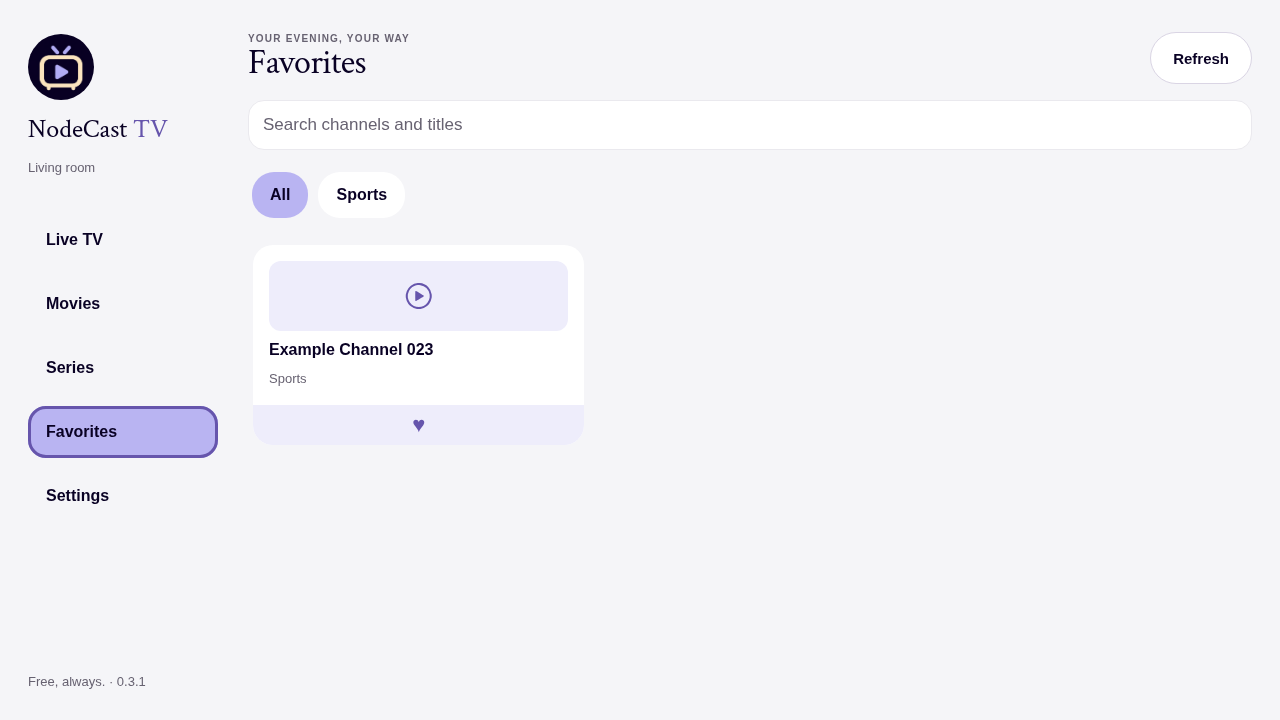
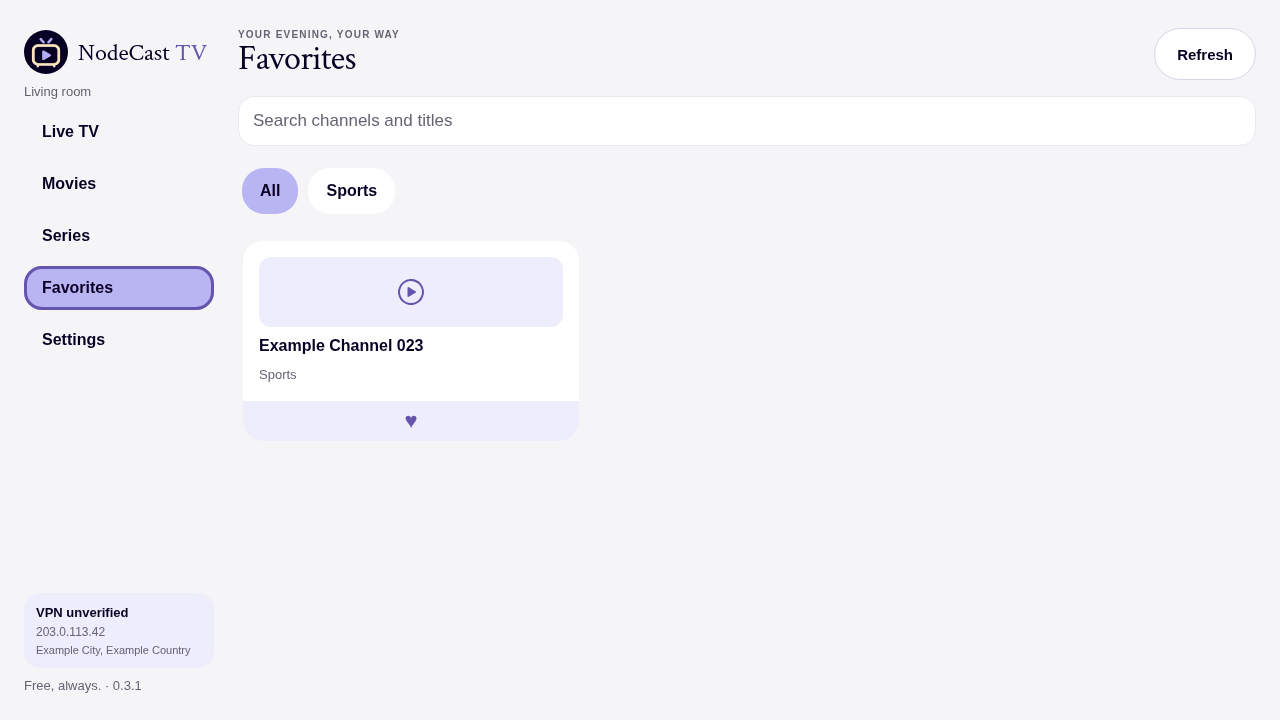
Keep TV navigation and connection status visible on compact TV layouts

diff --git a/android-tv/TVApp.tsx b/android-tv/TVApp.tsx
@@ -149,7 +149,7 @@ function TVContent({ onReady, launchComplete }: { onReady: () => void; launchCom
     const entries = recordViewing(viewingRef.current, playing, snapshot); viewingRef.current = entries; setViewing(entries);
     void writeViewing(activeId, entries).catch(() => {});
   }} /></View>;
-  return <View style={s.root}><StatusBar hidden /><View style={s.sidebar}><Image source={require('../assets/brand/nodecast-mark.png')} style={{ width: 66, height: 66, borderRadius: 33 }} /><Text style={s.brand}>NodeCast<Text style={{ color: colors.accent }}> TV</Text></Text><Text numberOfLines={1} style={u.small}>{active?.provider.name || 'Your own TV space'}</Text><View style={{ height: 12 }} />{(Object.keys(labels) as Page[]).map((p, n) => <Pressable key={p} hasTVPreferredFocus={n === 0} onPress={() => setPage(p)} style={[s.nav, page === p && { backgroundColor: colors.mint }]}><Text style={u.label}>{labels[p]}</Text></Pressable>)}<View style={{ marginTop: 'auto' }}><TVConnection baseline={preferences.baseline} onPress={() => setPage('settings')} /></View><Text style={u.small}>Free, always. · {appVersion}</Text></View><View style={s.main}>
+  return <View style={s.root}><StatusBar hidden /><View style={s.sidebar}><View style={{ flexDirection: 'row', alignItems: 'center', gap: 10 }}><Image source={require('../assets/brand/nodecast-mark.png')} style={{ width: 44, height: 44, borderRadius: 22 }} /><Text style={s.brand}>NodeCast<Text style={{ color: colors.accent }}> TV</Text></Text></View><Text numberOfLines={1} style={u.small}>{active?.provider.name || 'Your own TV space'}</Text>{(Object.keys(labels) as Page[]).map((p, n) => <Pressable key={p} hasTVPreferredFocus={n === 0} onPress={() => setPage(p)} style={[s.nav, page === p && { backgroundColor: colors.mint }]}><Text style={u.label}>{labels[p]}</Text></Pressable>)}<View style={{ marginTop: 'auto' }}><TVConnection baseline={preferences.baseline} onPress={() => setPage('settings')} /></View><Text style={u.small}>Free, always. · {appVersion}</Text></View><View style={s.main}>
     <View style={s.heading}><View style={{ flex: 1 }}><Text style={u.eyebrow}>YOUR EVENING, YOUR WAY</Text><Text style={u.h1}>{labels[page]}</Text></View>{active && page !== 'settings' && <Button title="Refresh" variant="secondary" onPress={() => setRevision(r => r + 1)} />}</View>
     {!!storageError && <Notice danger>{storageError}</Notice>}
     {page === 'settings' ? <ScrollView contentContainerStyle={{ gap: 16, paddingBottom: 32 }}><Text style={u.h2}>Your profiles</Text>{vault.profiles.map(p => <View key={p.id} style={[u.card, { gap: 10 }]}><Text style={u.label}>{p.provider.name}{p.id === activeId ? ' · Active' : ''}</Text><View style={u.row}><Button title="Use profile" variant="secondary" onPress={() => { void updateVault(v => ({ ...v, activeId: p.id })).catch(() => setError('Could not switch profile.')); }} /><Button title="Edit" variant="secondary" onPress={() => { setEdit(p); setError(''); setOverlay('provider'); }} /><Button title="Remove" variant="danger" onPress={() => Alert.alert('Remove profile?', 'This removes local favorites. Your subscription stays active.', [{ text: 'Cancel', style: 'cancel' }, { text: 'Remove', style: 'destructive', onPress: () => { void updateVault(v => removeProfile(v, p.id)).catch(() => setError('Could not remove profile.')); } }])} /></View></View>)}<Button title="Add playlist" onPress={add} disabled={!!storageError} /><NetworkCard baseline={preferences.baseline} onBaseline={baseline => updatePreferences({ baseline })} /><Button title="Set home IP reference" variant="secondary" onPress={() => setOverlay('home-ip')} /><Button title="Version history" variant="secondary" onPress={() => setOverlay('history')} /><View style={u.card}><Text style={u.h2}>Support NodeCast</Text><Text style={u.body}>NodeCast is free. If it makes your evenings better, a little support is appreciated.</Text><Button title="Buy me a coffee" variant="mint" onPress={() => { void Linking.openURL('https://buymeacoffee.com/hexorbd').catch(() => setError('Open buymeacoffee.com/hexorbd on your phone to support NodeCast.')); }} /></View>{!!error && <Notice danger>{error}</Notice>}</ScrollView> : !active ? <View style={[u.center, { gap: 18 }]}><Text style={u.h1}>A bigger screen. All yours.</Text><Text style={u.body}>Connect your Xtream Codes server or M3U playlist.</Text><Button title="Add your playlist" onPress={add} disabled={!ready || !!storageError} /></View> : <>
@@ -166,9 +166,9 @@ export default function TVApp() {
   return <NavigationMotionProvider><SafeAreaProvider><View style={{ flex: 1 }}><View style={{ flex: 1 }} pointerEvents={finished ? 'auto' : 'none'} importantForAccessibility={finished ? 'auto' : 'no-hide-descendants'}><TVContent onReady={() => setReady(true)} launchComplete={finished} /></View>{!finished && <StartupSplash ready={ready} onFinish={() => setFinished(true)} />}</View></SafeAreaProvider></NavigationMotionProvider>;
 }
 const s = StyleSheet.create({
-  root: { flex: 1, flexDirection: 'row', padding: 28, gap: 30, backgroundColor: colors.bg },
-  sidebar: { width: 190, gap: 12, paddingTop: 6 }, brand: { color: colors.text, fontSize: 26, fontFamily: 'CrimsonText' },
-  nav: { paddingHorizontal: 18, paddingVertical: 15, borderRadius: 18 }, main: { flex: 1, gap: 12 },
+  root: { flex: 1, flexDirection: 'row', padding: 24, gap: 24, backgroundColor: colors.bg },
+  sidebar: { width: 190, gap: 8, paddingTop: 6 }, brand: { color: colors.text, fontSize: 24, fontFamily: 'CrimsonText' },
+  nav: { paddingHorizontal: 18, paddingVertical: 11, borderRadius: 18 }, main: { flex: 1, gap: 12 },
   heading: { flexDirection: 'row', alignItems: 'center', minHeight: 60, gap: 16 },
   search: { backgroundColor: '#fff', borderRadius: 16, borderWidth: 1, borderColor: colors.line, padding: 14, fontSize: 17, color: colors.text },
   chip: { paddingVertical: 12, paddingHorizontal: 18, borderRadius: 22, backgroundColor: '#fff', maxWidth: 240 },

diff --git a/verification/android/check-tv.py b/verification/android/check-tv.py
@@ -45,6 +45,13 @@ with sync_playwright() as p:
  page.get_by_role('button',name='Back',exact=True).click()
  page.get_by_text('Your profiles',exact=True).wait_for()
  page.screenshot(path=str(out/'tv-settings.png'))
+ page.set_viewport_size({'width':960,'height':540})
+ page.get_by_text('Live TV',exact=True).click()
+ badge=page.get_by_role('button',name='Connection details in Settings').bounding_box()
+ assert badge['y']+badge['height'] <= 540, badge
+ footer=page.get_by_text('Free, always. · 0.3.1',exact=True).bounding_box()
+ assert footer['y']+footer['height'] <= 540, footer
+ page.screenshot(path=str(out/'tv-compact-960x540.png'))
  assert not errors,errors
  (out/'tv-checks.json').write_text(json.dumps({'passed':['Xtream connection with synthetic provider','100-channel library','Search','Favorites saved and filtered','Three columns at 1280x720','Visible keyboard focus outline','Version history and Back navigation'],'errors':errors,'scope':'Browser UI checks. Native D-pad, decoder and hardware behavior require device tests.'},indent=2)+'\n')
  browser.close()
